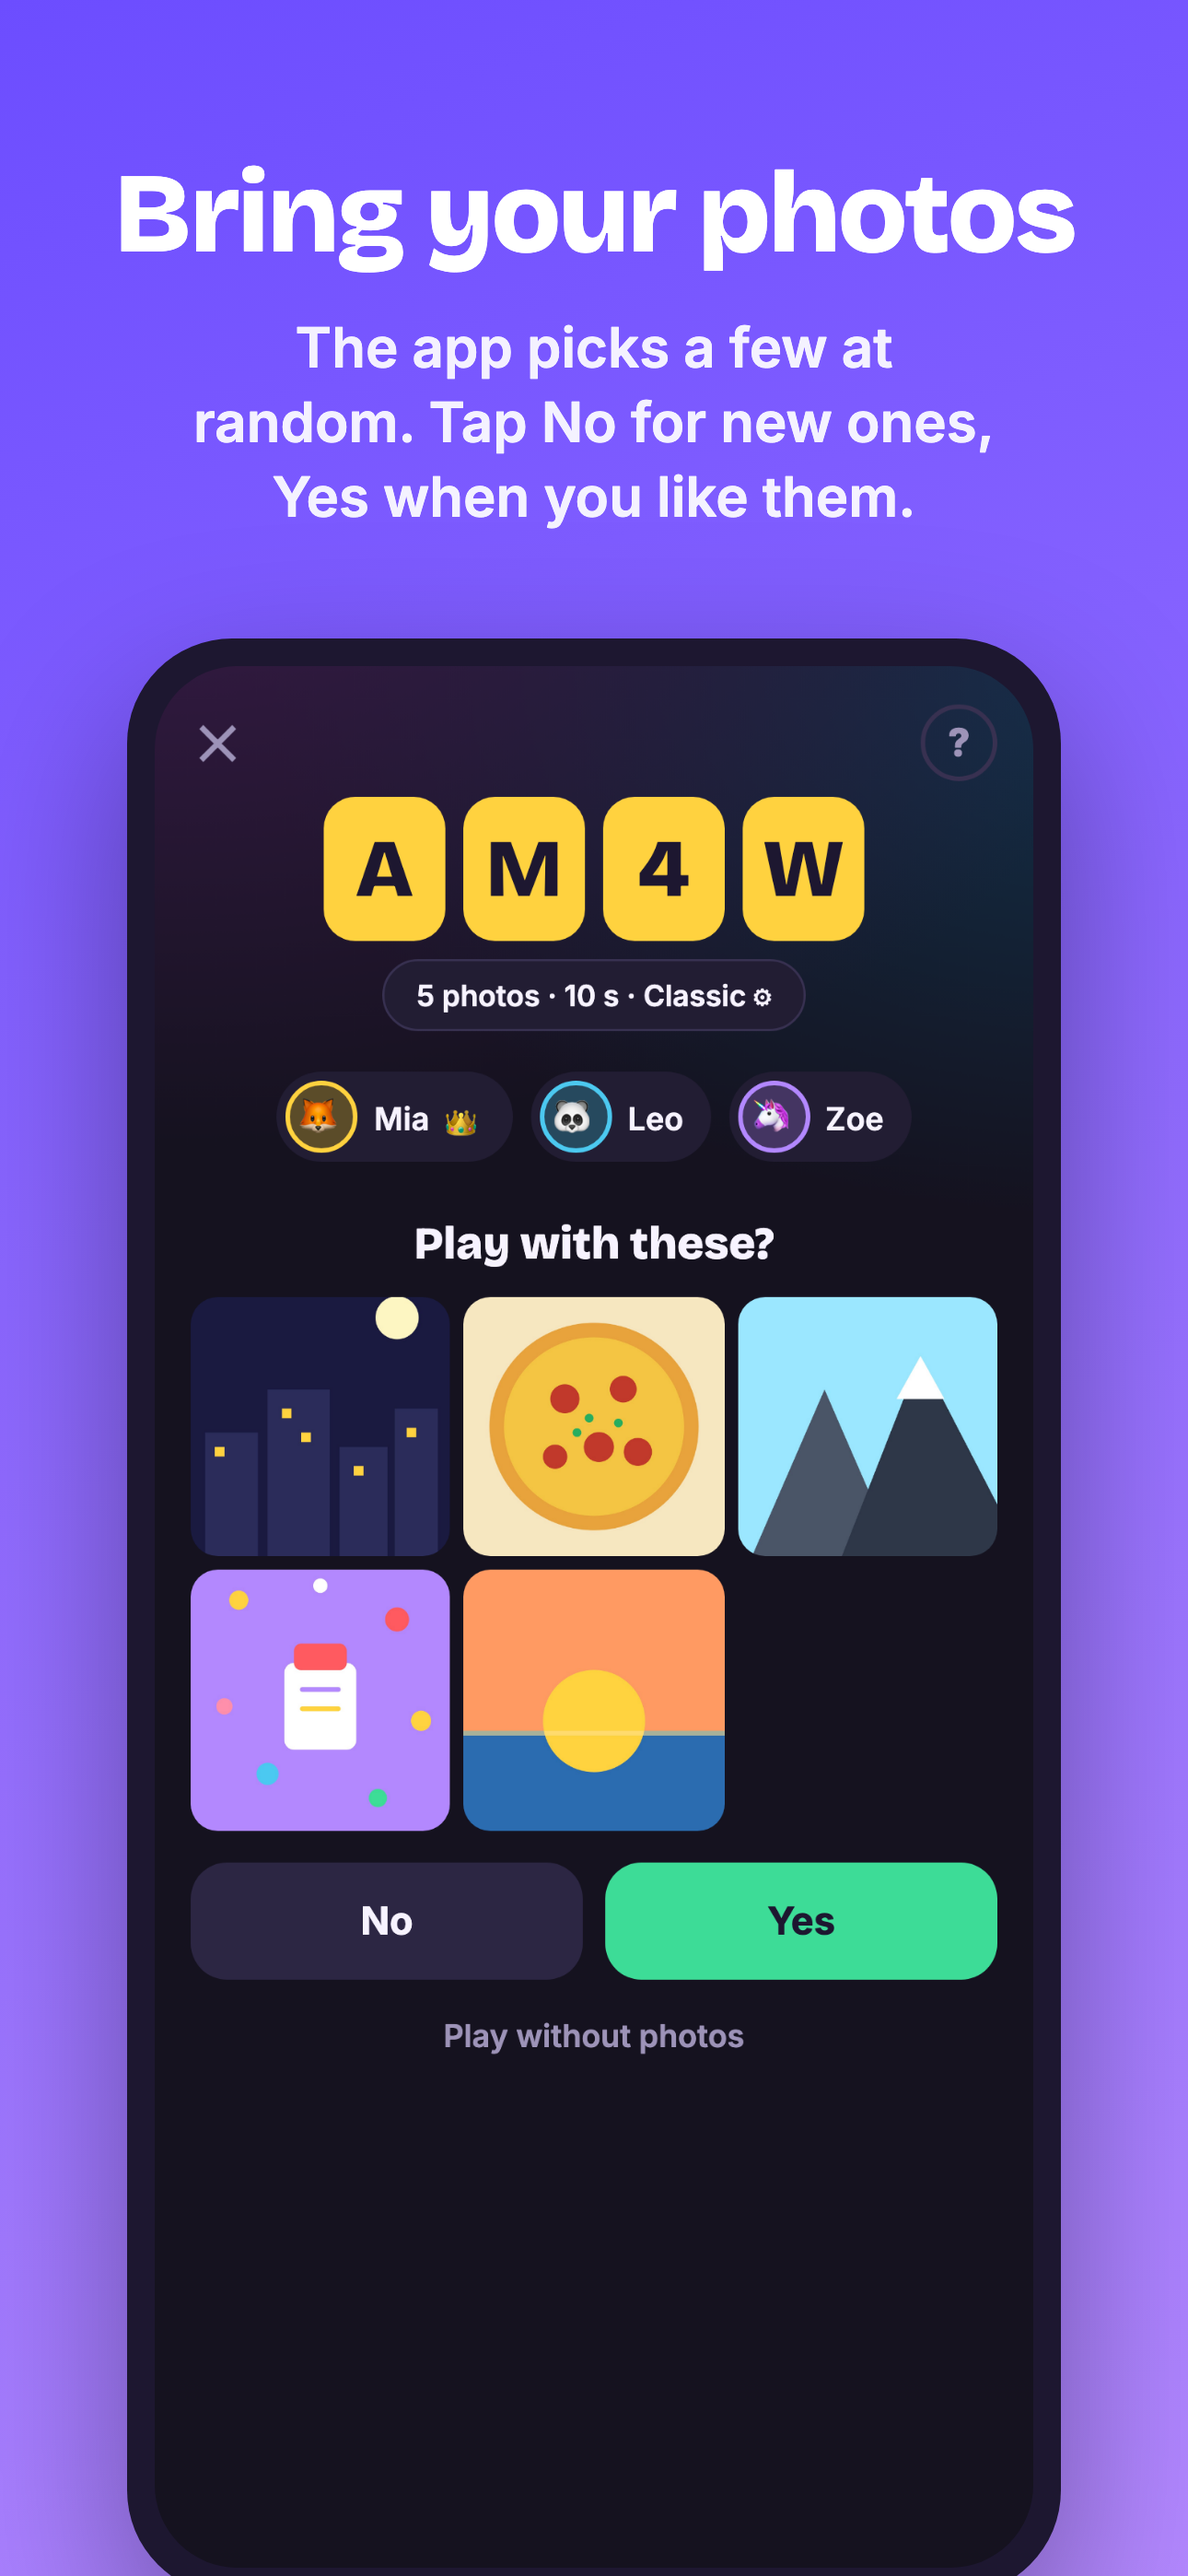
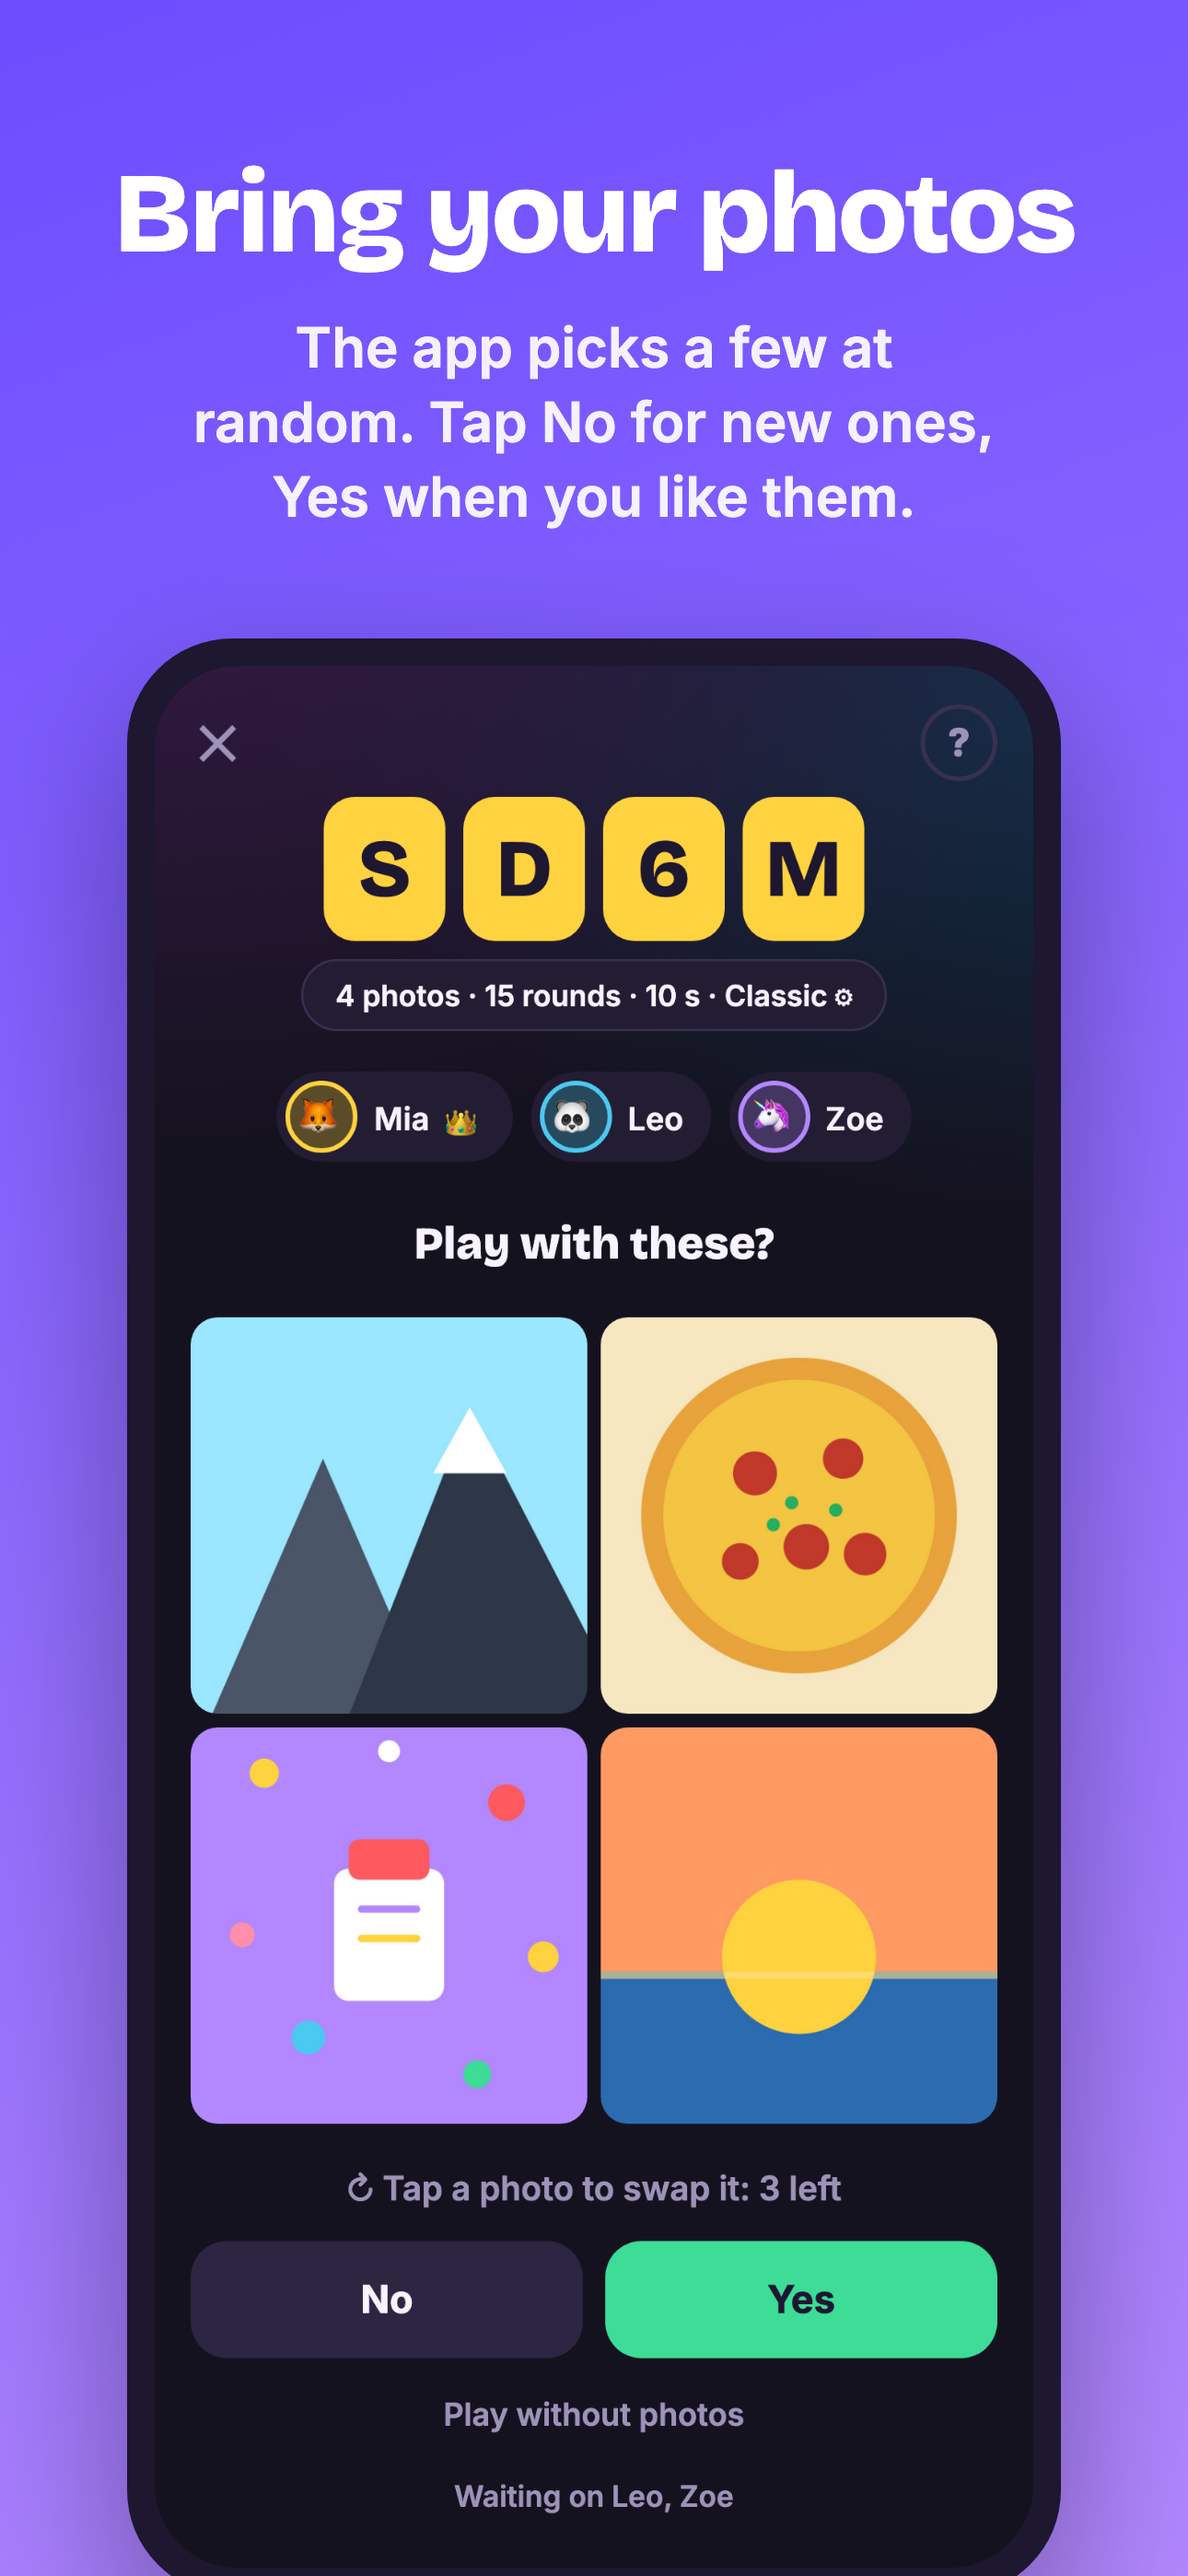
chore(release): implement commit 10 of the plan: demo players, store images and texts, version 1.0.2
The demo players wait through each leaderboard and join the next game when
anyone taps Play again (the end screen's data-next). Their guide says so.

The store images show the app as it is now: four photos each in a big 2 x 2
choice with the swap line, the Custom card on the New game step, and the
leaderboard (one right guess with points, two wrong) for "Fast and right
wins". The App Store text mentions swapping one photo and the leaderboard;
What's New describes this version in plain words.

Version 1.0.2 (APP.version and package.json): built with every test green and
uploaded to TestFlight (build 10002). The App Store submission waits until 1.0.0
is live and the operator says go; the server deploy waits for his confirmation.

Claude-Session: https://claude.ai/code/session_01WjJSKi4xhRxe9SdjpwXBdd

Changed region(s): [[0.155, 0.4979, 0.8372, 0.9957], [0.2791, 0.3112, 0.7132, 0.4045], [0.5271, 0.3112, 0.5891, 0.3423]]

diff --git a/web/shared/config.js b/web/shared/config.js
@@ -32,7 +32,7 @@ export const APP = {
    * The app's version, restated from `package.json` (the page cannot read it; a test keeps
    * both equal). Every new version asks for the terms once more (`termsToken`).
    */
-  version: '1.0.1',
+  version: '1.0.2',
 };
 
 export const SERVER = {

diff --git a/docs/plans/2026-11-22-game-flow-overhaul.md b/docs/plans/2026-11-22-game-flow-overhaul.md
@@ -466,7 +466,7 @@ Status: done (tried on a real iPhone through TestFlight in commit 10).
   through TestFlight (the release commit says so).
 
 ### Commit 10: helpers, docs and the release
-Status: open.
+Status: done except the server deploy, which waits for the operator's confirmation (version 1.0.2, build 10002, is in TestFlight).
 
 - `demo-players.mjs`: wait through the board; on the results, tap "Play again" when
   `data-next` says a new game is open, and also before leaving; their guide updated.
@@ -558,3 +558,6 @@ Status: open.
 | Commit 8: the legal page's "Changes" sentence | Unchanged ("when a change matters for you, the app asks you to accept the new version") | Still true; asking after every update asks more often, never less. |
 | Commit 9: a cloud budget per batch | Besides the 4 s per photo, a batch spends at most 8 s on iCloud previews; photos beyond it are skipped in this batch only | A library mostly in iCloud would otherwise make a batch take very long; skipped photos stay in the draw for the next batches. |
 | Commit 9: the batch timeout | TIMING.previewMs rises from 10 s to 15 s | Room for the local work plus the cloud budget. |
+| Commit 10: the store images | Four photos each (the drawn library fills a 2 x 2 choice), the leaderboard instead of the reveal for "Fast and right wins", and each player picks someone else so one guess is right | The images show the app as it is now, with a ✓ and a ✗ on the board. |
+| Commit 10: what goes to Apple | 1.0.2 is uploaded to TestFlight only; the App Store submission waits until 1.0.0 is live and the operator says go | Apple keeps one version in review at a time, and the release is the operator's call. |
+| Commit 10: the server deploy | Not done yet; it needs the operator's confirmation (critical command), and should go out when 1.0.2 is in his testers' hands | Section 2: 1.0.0 and 1.0.1 keep working with the new server, a little worse. |

diff --git a/store/listing.md b/store/listing.md
@@ -43,14 +43,14 @@ my photos?".
 
     HOW IT WORKS
     1. One person creates a game. Friends join with a four letter code.
-    2. Everyone gets a few random photos from their phone. Don’t like them? Tap No for new ones. Happy? Tap Yes.
+    2. Everyone gets a few random photos from their phone. Don’t like them? Tap No for new ones, or tap one photo to swap just that one. Happy? Tap Yes.
     3. The photos pop up one by one. Tap who took it. Fast and right scores the most.
 
     MADE FOR PARTIES
     • 2 to 12 players, best together in one room
     • Classic, or Tricky: photos start blurry, zoomed in or pixelated
     • Pick rounds, time and points, each option explained in one sentence
-    • Streak bonus, reactions and a podium at the end
+    • A leaderboard after every photo, reactions and a podium at the end
     • Free, no account, no ads
 
     YOUR PHOTOS STAY YOURS
@@ -71,7 +71,7 @@ never other apps' names):
 
 **What’s New** (later versions only): one or two plain sentences about what players notice.
 
-    New photos at once: tap No and the next ones are already there. And the new setting “Which photos” keeps chats, emails and other photos full of text out of the game.
+    New photos at once, and you can swap single photos. A leaderboard after every photo, with Show again for one more look. Everyone can tap Play again, and a game’s code works for a whole day. The new setting “Which photos” keeps chats, emails and other photos full of text out of the game.
 
 **URLs:**
 - Support URL: `https://who-shot-it.nils-plum.workers.dev/legal#imprint`

diff --git a/docs/guides/demo-players.md b/docs/guides/demo-players.md
@@ -25,8 +25,8 @@ browser), and internet. The computer must stay awake while they play.
 4. Choose your photos (**Continue**, then **Yes**). The game starts by itself once everyone
    is ready.
 5. In each round they tap a random player a few seconds after the photo appears.
-6. After the podium they stay **two minutes** and play along if you tap **Play again**. Then
-   they leave by themselves.
+6. After the podium they stay **two minutes**; when you tap **Play again** they join the next
+   game. Otherwise they leave by themselves.
 
 They also leave when you remove them or when the game is gone. Ctrl+C on the computer ends
 them all at once.
